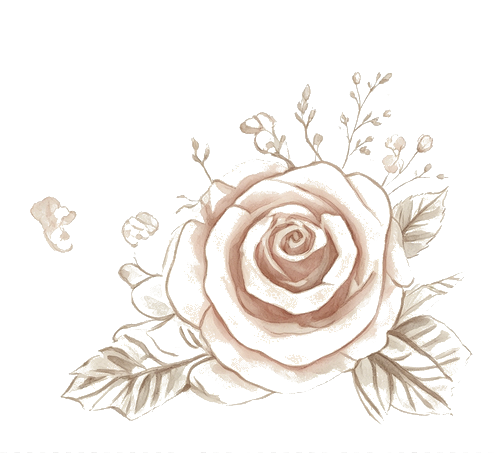
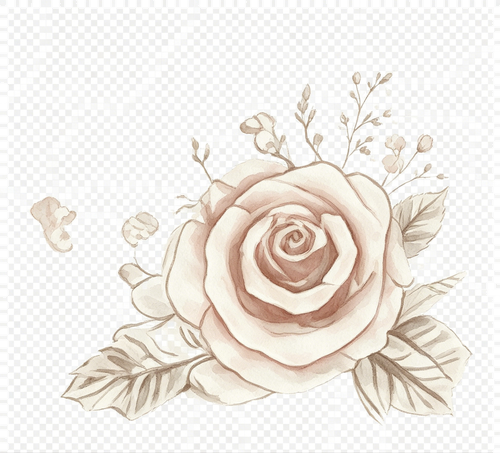
solid rose (no hollow center), fix bottom gap, adjust position

diff --git a/index.html b/index.html
@@ -35,20 +35,12 @@
 body {
   font-family: 'LXGW WenKai', 'Inter', -apple-system, BlinkMacSystemFont, 'Segoe UI', sans-serif;
   font-weight: 400;
-  background: var(--bg);
+  background: var(--bg) url('wallpaper.jpg') center / cover no-repeat;
   color: var(--text);
   min-height: 100vh; min-height: 100dvh;
   line-height: 1.6;
   -webkit-font-smoothing: antialiased;
   overflow: hidden;
-}
-
-body::before {
-  content: '';
-  position: fixed;
-  top: -50px; left: -50px; right: -50px; bottom: -50px;
-  background: url('wallpaper.jpg') center / cover no-repeat;
-  pointer-events: none; z-index: 0;
 }
 
 /* ===== Splash ===== */
@@ -283,7 +275,7 @@ body.on-terminal .menu-btn svg { stroke: rgba(255,255,255,0.55); }
 }
 .chat-msg.user .chat-msg-content::after {
   content: '';
-  position: absolute; right: -6px; bottom: -6px;
+  position: absolute; right: -6px; bottom: 0px;
   width: 65px; height: 59px;
   background: url('rose-deco.png') no-repeat center;
   background-size: contain;